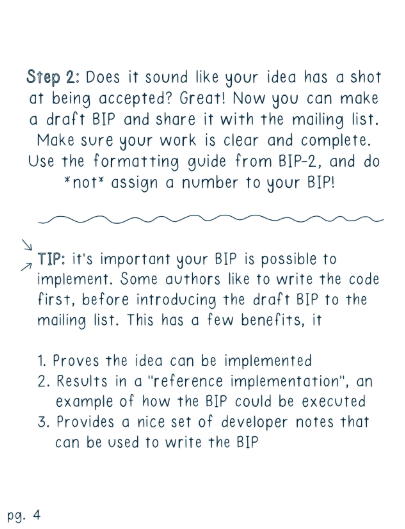
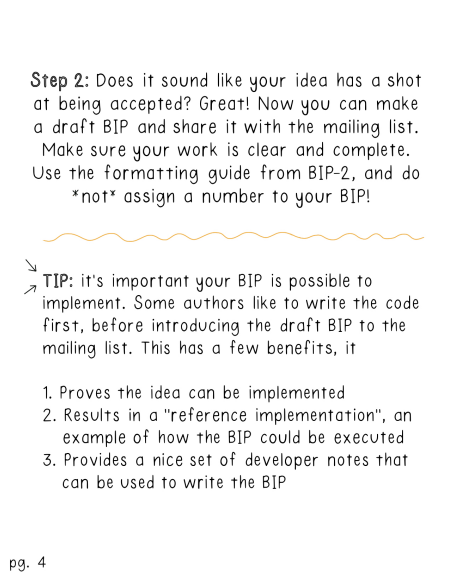
zines: update bips flipbook

diff --git a/zines/flipbook.css b/zines/flipbook.css
@@ -2,7 +2,7 @@
 .flipbook{
     width: 405px;
     max-width: 100%;
-    height: 530px;
+    height: 515px;
     position: relative;
     align-items: center;
     transition: transform 0.5s;
